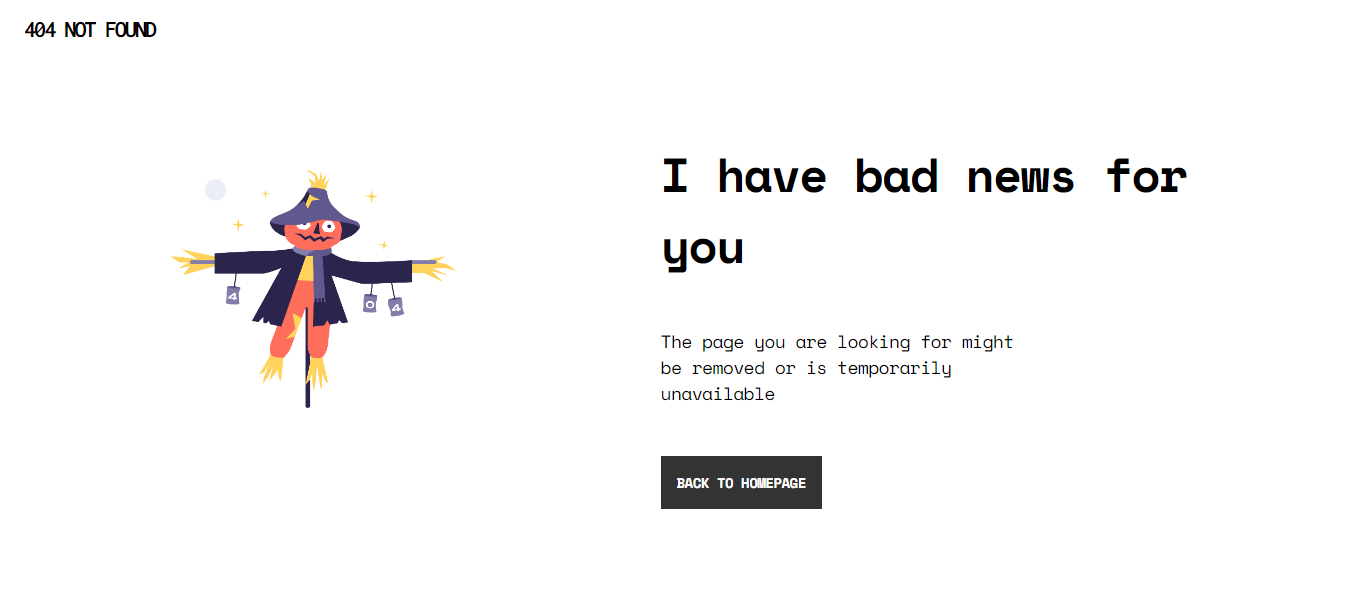
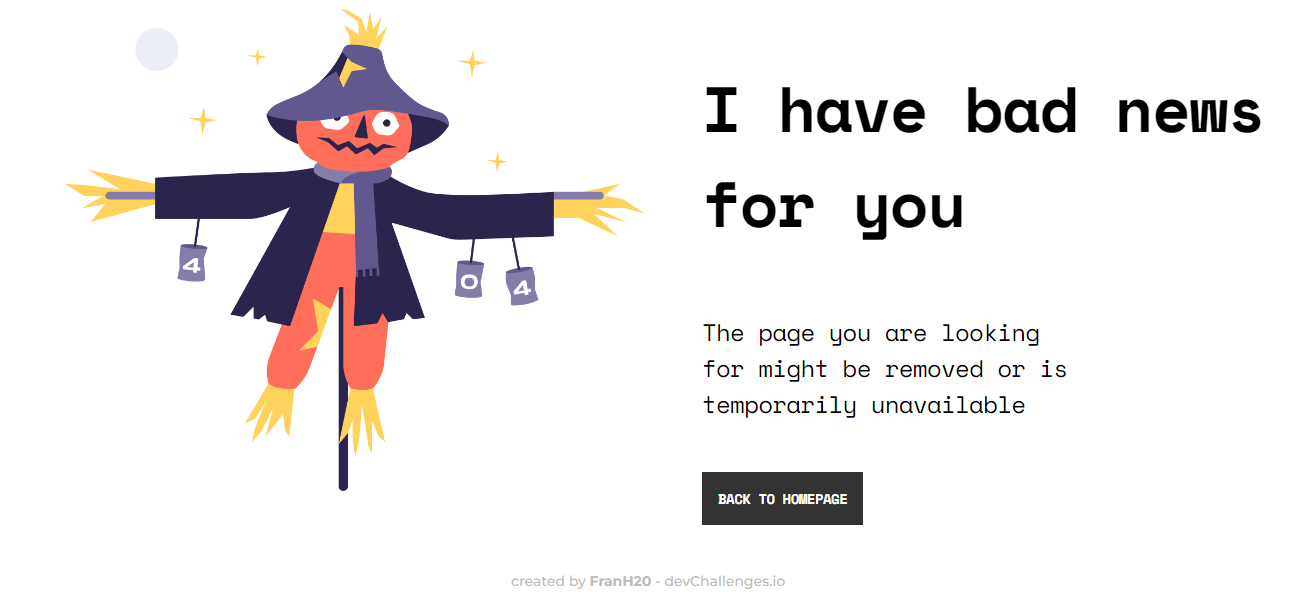
Refactorizando codigo

diff --git a/styles.css b/styles.css
@@ -44,15 +44,13 @@
 }
 
 .main__image-container {
-    margin: 0;
-    width: 100%;
-    text-align: center;
-    max-width: 400px;
+    margin: 0; margin: auto;
+    max-width: 580px;
 }
 
 .main__image-container .main__image {
-    width: 17.92688rem;
-    height: 14.875rem;
+    width: 100%; height: 100%;
+    object-fit: contain;
 }
 .main__information {
     margin-bottom: 4rem;
@@ -130,15 +128,11 @@
     .main {
         justify-content: space-around;
     }
-    .main__title-error {
+    .main__information .main__title-error {
         font-size: 4rem;
     }
-    .main__description-error {
+    .main__information .main__description-error {
         font-size: 1.5rem;
-    }
-    .main__image {
-        width: 33.7015rem;
-        height: 27.96413rem;
     }
     .footer {
         margin-top: auto;
